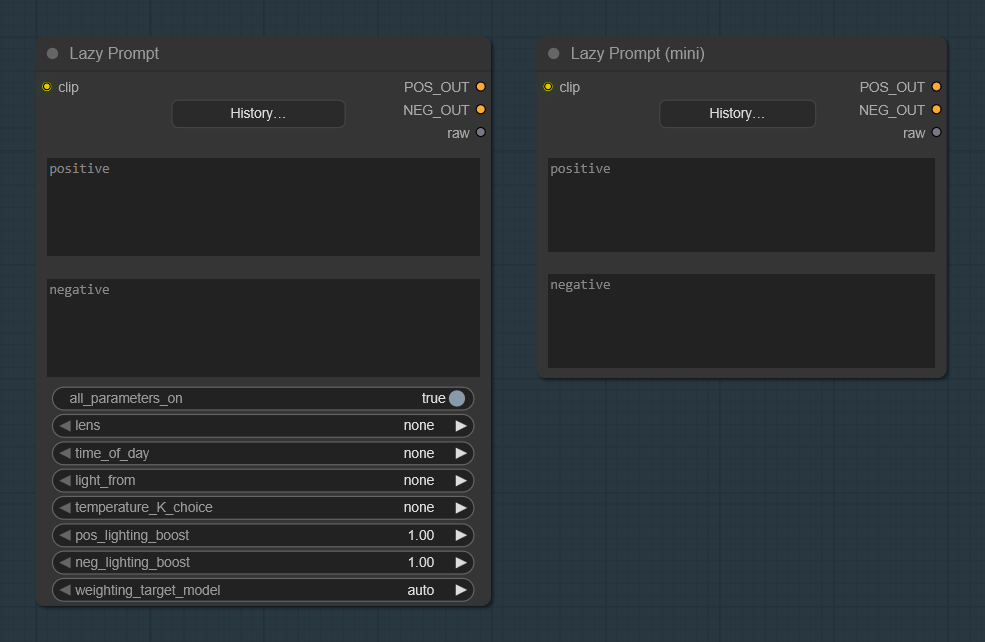
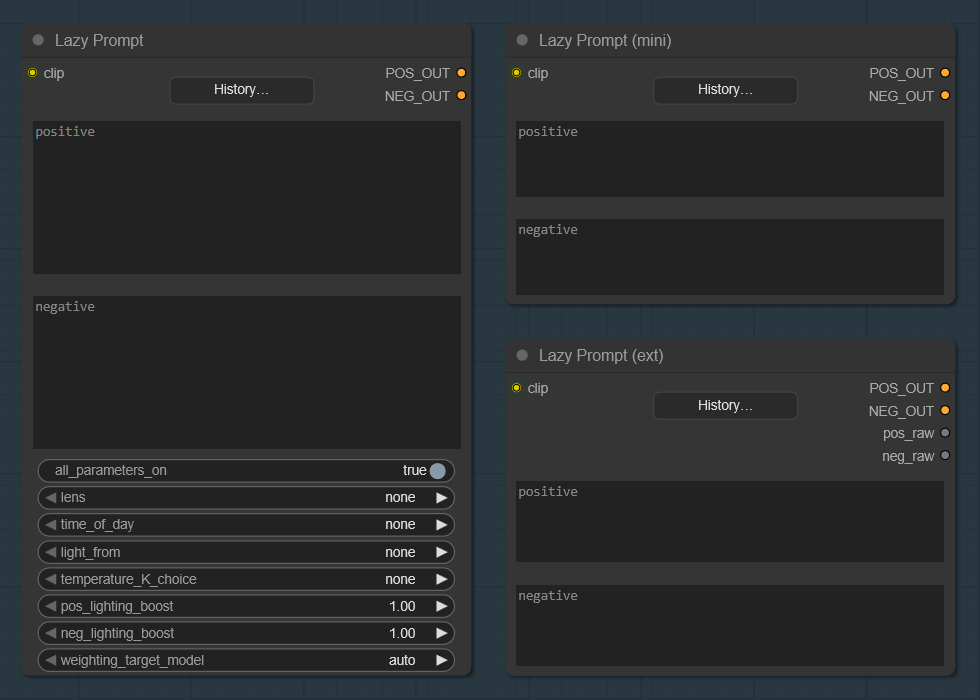
New node

diff --git a/web/PG-Lazy-Prompt.js b/web/PG-Lazy-Prompt.js
@@ -75,8 +75,8 @@ import { app } from "../../scripts/app.js";
     ANCHOR: 'port',
 
     // Manual constants (when AUTO_FROM_NODE_SIZE = false)
-    X_LEFT: 26,
-    Y_OFFSET: 18,
+    X_LEFT: 30,
+    Y_OFFSET: 10,
     GAP: 0,
     FIXED_X: 20,
     FIXED_Y: 120,
@@ -90,16 +90,16 @@ import { app } from "../../scripts/app.js";
     // Auto from node.size
     AUTO_FROM_NODE_SIZE: true,        // enable auto‑scaling
     AUTO_RATIOS: {                    // ratios relative to node.size
-      X_LEFT: 0.30,                   // % of node width
+      X_LEFT: 0.33,                   // % of node width
       GAP: 0,                         // % of node height
-      BTN_W: 0.38,                    // % of width
+      BTN_W: 0.32,                    // % of width
       BTN_H: 0.39,                    // % of height
       PAD:   0.50                     // % of width
     },
     AUTO_CLAMP: {                     // safe clamps
       X_LEFT: [25, 500],
       GAP:    [0, 0],
-      BTN_W:  [42, 500],
+      BTN_W:  [22, 500],
       BTN_H:  [10, 24],
       PAD:    [6, 16]
     },
@@ -114,23 +114,33 @@ import { app } from "../../scripts/app.js";
   function graph(){ var a = app(); return a && a.graph ? a.graph : null; }
   function findWidget(node, name){ if (!node || !node.widgets) return null; for (var i=0;i<node.widgets.length;i++){ var w=node.widgets[i]; if (w && w.name===name) return w; } return null; }
   function get(node, key, def){ var w=findWidget(node,key); return (w&&typeof w.value!=='undefined')?w.value:def; }
-  function isPgLazyPromptClass(x){
-    const cls = (
-      x?.comfyClass || x?.type || x?.name || x?.title ||
-      x?.constructor?.comfyClass || x?.constructor?.type || ''
-    );
-    const s = String(cls);
-    return s === 'PgLazyPrompt' || s === 'PgLazyPromptMini' || s === 'Lazy Prompt' || s === 'Lazy Prompt (mini)';
+  const PG_LAZY_NAMES = new Set([
+    // class names
+    'PgLazyPrompt', 'PgLazyPromptMini', 'PgLazyPromptExt',
+    // display titles as they appear in ComfyUI UI
+    'Lazy Prompt', 'Lazy Prompt (mini)', 'Lazy Prompt (ext)',
+  ]);
+  function _norm(x){
+    return (x == null ? '' : String(x));
   }
-  const PG_LAZY_CLASSES = new Set(['PgLazyPrompt','PgLazyPromptMini','Lazy Prompt','Lazy Prompt (mini)']);
+  function _collectNames(x){
+    if (!x) return [];
+    const out = [];
+    out.push(_norm(x.comfyClass), _norm(x.type), _norm(x.name), _norm(x.title));
+    const c = x.constructor || {};
+    out.push(_norm(c.comfyClass), _norm(c.type), _norm(c.name), _norm(c.title));
+    return out.filter(Boolean);
+  }
+  function _matchesAnyLazyName(x){
+    return _collectNames(x).some(n => PG_LAZY_NAMES.has(n));
+  }
+  function isPgLazyPromptClass(x){
+    return _matchesAnyLazyName(x);
+  }
   const __isMaybeOurs = (nodeType, nodeData) => (
-    isPgLazyPromptClass(nodeType) ||
-    isPgLazyPromptClass(nodeData) ||
-    PG_LAZY_CLASSES.has(nodeType?.comfyClass) || PG_LAZY_CLASSES.has(nodeType?.name) || PG_LAZY_CLASSES.has(nodeType?.title) ||
-    PG_LAZY_CLASSES.has(nodeData?.comfyClass) || PG_LAZY_CLASSES.has(nodeData?.name) || PG_LAZY_CLASSES.has(nodeData?.title) ||
-    (nodeType?.title === 'Lazy Prompt' || nodeType?.title === 'Lazy Prompt (mini)') ||
-    (nodeData?.title === 'Lazy Prompt' || nodeData?.title === 'Lazy Prompt (mini)')
+    _matchesAnyLazyName(nodeType) || _matchesAnyLazyName(nodeData)
   );
+  
   function _isCollapsed(n){ try { return !!(n && (n.flags?.collapsed || n.collapsed)); } catch(_) { return false; } }
   function setPreview(node, txt, opts){
     try{
@@ -252,7 +262,7 @@ import { app } from "../../scripts/app.js";
 
       // 1) Fast path: class/type match
       var cls = (node.comfyClass || node.type || '').toString();
-      if (PG_LAZY_CLASSES.has(cls)) return true;
+      if (PG_LAZY_NAMES.has(cls)) return true;
 
       // 2) Heuristic by widget names (works even if some optional widgets are gone)
       var W = Array.isArray(node.widgets) ? node.widgets : [];
@@ -708,22 +718,31 @@ import { app } from "../../scripts/app.js";
     try { g?.setDirtyCanvas?.(true,true); } catch(_){ }
   }
 
-  function isPgLazyPromptClass(x){
-    const cls = (
-      x?.comfyClass || x?.type || x?.name || x?.title ||
-      x?.constructor?.comfyClass || x?.constructor?.type || ''
-    );
-    const s = String(cls);
-    return s === 'PgLazyPrompt' || s === 'PgLazyPromptMini' || s === 'Lazy Prompt' || s === 'Lazy Prompt (mini)';
+  const PG_LAZY_NAMES = new Set([
+    // class names
+    'PgLazyPrompt', 'PgLazyPromptMini', 'PgLazyPromptExt',
+    // display titles as they appear in ComfyUI UI
+    'Lazy Prompt', 'Lazy Prompt (mini)', 'Lazy Prompt (ext)',
+  ]);
+  function _norm(x){
+    return (x == null ? '' : String(x));
   }
-  const PG_LAZY_CLASSES = new Set(['PgLazyPrompt','PgLazyPromptMini','Lazy Prompt','Lazy Prompt (mini)']);
+  function _collectNames(x){
+    if (!x) return [];
+    const out = [];
+    out.push(_norm(x.comfyClass), _norm(x.type), _norm(x.name), _norm(x.title));
+    const c = x.constructor || {};
+    out.push(_norm(c.comfyClass), _norm(c.type), _norm(c.name), _norm(c.title));
+    return out.filter(Boolean);
+  }
+  function _matchesAnyLazyName(x){
+    return _collectNames(x).some(n => PG_LAZY_NAMES.has(n));
+  }
+  function isPgLazyPromptClass(x){
+    return _matchesAnyLazyName(x);
+  }
   const __isMaybeOurs = (nodeType, nodeData) => (
-    isPgLazyPromptClass(nodeType) ||
-    isPgLazyPromptClass(nodeData) ||
-    PG_LAZY_CLASSES.has(nodeType?.comfyClass) || PG_LAZY_CLASSES.has(nodeType?.name) || PG_LAZY_CLASSES.has(nodeType?.title) ||
-    PG_LAZY_CLASSES.has(nodeData?.comfyClass) || PG_LAZY_CLASSES.has(nodeData?.name) || PG_LAZY_CLASSES.has(nodeData?.title) ||
-    (nodeType?.title === 'Lazy Prompt' || nodeType?.title === 'Lazy Prompt (mini)') ||
-    (nodeData?.title === 'Lazy Prompt' || nodeData?.title === 'Lazy Prompt (mini)')
+    _matchesAnyLazyName(nodeType) || _matchesAnyLazyName(nodeData)
   );
 
   function __attachPrefsOnce(nodeType){

diff --git a/PG_Lazy_Prompt.py b/PG_Lazy_Prompt.py
@@ -399,8 +399,8 @@ class PgLazyPrompt:
             "optional": {}
         }
 
-    RETURN_TYPES  = ("CONDITIONING","CONDITIONING","STRING")
-    RETURN_NAMES  = ("POS_OUT","NEG_OUT","raw")
+    RETURN_TYPES  = ("CONDITIONING","CONDITIONING")
+    RETURN_NAMES  = ("POS_OUT","NEG_OUT")
     FUNCTION      = "build_encode_and_history"
     CATEGORY      = "PG"
     @classmethod
@@ -537,8 +537,7 @@ class PgLazyPrompt:
                 hist["items"] = items
                 _write_history_atomic(history_path, hist)
 
-        raw_text = (pos_text + ("\n---\n" + neg_text if neg_text else "")).strip()
-        return (pos_cond, neg_cond, raw_text)
+        return (pos_cond, neg_cond)
 
 
 class PgLazyPromptMini:
@@ -555,8 +554,8 @@ class PgLazyPromptMini:
             "optional": {}
         }
 
-    RETURN_TYPES  = ("CONDITIONING","CONDITIONING","STRING")
-    RETURN_NAMES  = ("POS_OUT","NEG_OUT","raw")
+    RETURN_TYPES  = ("CONDITIONING","CONDITIONING")
+    RETURN_NAMES  = ("POS_OUT","NEG_OUT")
     FUNCTION      = "build_encode_and_history"
     CATEGORY      = "PG"
     OUTPUT_NODE   = True
@@ -648,17 +647,130 @@ class PgLazyPromptMini:
                 hist["items"] = items
                 _write_history_atomic(history_path, hist)
 
-        raw_text = (pos_text + ("\n---\n" + neg_text if neg_text else "")).strip()
-        return (pos_cond, neg_cond, raw_text)
+        return (pos_cond, neg_cond)
+
+
+class PgLazyPromptExt:
+    DESCRIPTION = "Prompt -> CONDITIONING with on-disk JSON history (LRU). Extended out."
+
+    @classmethod
+    def INPUT_TYPES(cls):
+        return {
+            "required": {
+                "clip": ("CLIP", {}),
+                "positive": ("STRING", {"multiline": True, "default": ""}),
+                "negative": ("STRING", {"multiline": True, "default": ""}),
+            },
+            "optional": {}
+        }
+
+    RETURN_TYPES  = ("CONDITIONING","CONDITIONING","STRING","STRING")
+    RETURN_NAMES  = ("POS_OUT","NEG_OUT","pos_raw","neg_raw")
+    FUNCTION      = "build_encode_and_history"
+    CATEGORY      = "PG"
+    OUTPUT_NODE   = True
+
+    @classmethod
+    def IS_CHANGED(cls, **kwargs):
+        if not PG_ALWAYS_REROLL:
+            return None
+        try:
+            positive_val = kwargs.get('positive', '')
+        except Exception:
+            positive_val = ''
+        if has_choice_syntax(positive_val):
+            try:
+                return time.time_ns()
+            except Exception:
+                return time.time()
+        return None
+
+    def build_encode_and_history(
+        self,
+        clip,
+        positive,
+        negative,
+        history_ui_slot: str = "",
+    ):
+        _ = history_ui_slot
+
+        positive_orig = (positive or "").strip()
+        negative_raw  = (negative or "").strip()
+
+        # Reroll seed if enabled (env `PG_REROLL` overrides)
+        _reroll = bool(PG_ALWAYS_REROLL)
+        try:
+            if "PG_REROLL" in os.environ:
+                _reroll = bool(int(os.environ.get("PG_REROLL", "0")))
+        except Exception:
+            pass
+        _seed = None
+        if _reroll:
+            try:
+                _seed = time.time_ns() & 0xFFFFFFFF
+            except Exception:
+                _seed = int(time.time()*1000) & 0xFFFFFFFF
+        positive_raw = expand_choices(positive_orig, seed=_seed)
+
+        pos_text = positive_raw
+        neg_text = negative_raw
+
+        # Encode
+        if nodes is None:
+            raise RuntimeError("ComfyUI 'nodes' not available")
+        pos_cond, = nodes.CLIPTextEncode().encode(clip, pos_text)
+        neg_cond, = nodes.CLIPTextEncode().encode(clip, neg_text)
+
+        # History write (skip if both empty)
+        if (positive_orig == "" and negative_raw == ""):
+            print("[PG history] skip: empty positive & negative; not saving (mini)")
+        else:
+            _hp, _me = _get_prefs()
+            history_path = _normalize_history_path(_hp)
+            max_entries = int(_me)
+
+            core = {"positive": positive_orig, "negative": negative_raw}
+            key_hash = _compute_key_hash(core)
+            now = int(time.time())
+            record = {
+                "key_hash": key_hash,
+                "positive": core["positive"],
+                "negative": core["negative"],
+                "created_at": now,
+                "last_used_at": now,
+                "hits": 1,
+            }
+            with _HIST_LOCK:
+                hist = _read_history(history_path)
+                items = hist.get("items", [])
+                before_len = len(items)
+                ix = _find_by_hash(items, key_hash)
+                if ix >= 0:
+                    old = items.pop(ix)
+                    record["created_at"] = int(old.get("created_at", now))
+                    record["hits"] = int(old.get("hits", 0)) + 1
+
+                items.insert(0, record)
+                items = _trim_lru(items, max_entries)
+                print(f"[PG history mini] save: before={before_len} after={len(items)} max_entries={max_entries}")
+
+                hist["items"] = items
+                _write_history_atomic(history_path, hist)
+
+        pos_raw_text = (pos_text).strip()
+        neg_raw_text = (neg_text).strip()
+        return (pos_cond, neg_cond, pos_raw_text, neg_raw_text)
 
 
 NODE_CLASS_MAPPINGS = {
     "PgLazyPrompt": PgLazyPrompt,
     "PgLazyPromptMini": PgLazyPromptMini,
+    "PgLazyPromptExt": PgLazyPromptExt,
 }
 NODE_DISPLAY_NAME_MAPPINGS = {
     "PgLazyPrompt": "Lazy Prompt",
     "PgLazyPromptMini": "Lazy Prompt (mini)",
+    "PgLazyPromptExt": "Lazy Prompt (ext)",
 }
 
 

diff --git a/__init__.py b/__init__.py
@@ -1,4 +1,4 @@
-VERSION = "1.0.0"
+VERSION = "1.5.0"
 __version__ = VERSION
 
 import importlib

diff --git a/README.md b/README.md
@@ -42,6 +42,12 @@ The core idea of **Lazy Prompt** is comfort: write a prompt once, and bring it b
 * Default cap: `max_entries = 500`.
 * **Tip:** right‑click the node (⋯) to open the **context menu** and tweak the history file path or the maximum number of stored entries.
 
+**Lazy Prompt (ext)**
+
+* Starting with version 1.5.0, I added “Lazy Prompt (ext)”, which includes outputs for interoperability with other nodes:
+
+![Lazy Prompt ext pic](./examples/Lazy_Prompt_ext.png)
+
 ---
 
 ## Unified Loader
@@ -122,6 +128,13 @@ Minimal nodes that **save** images in an `IMAGE` batch to ComfyUI’s output dir
 * You can adjust **history path** and **max entries** from the node’s **context menu**.
 
 ## Versioning & Updates
-- Current version: **1.0.0** (`__init__.py` → `VERSION`).
-- We use SemVer (MAJOR.MINOR.PATCH). See `CHANGELOG.md`.
-- To update: ComfyUI Manager → **Update Custom Nodes** → restart ComfyUI.
+
+### [1.0.0]
+#### Added
+- Initial public release.
+- Nodes: Lazy Prompt (+mini), Unified Loader (+mini), Just Save Image (+Out).
+- Prompt history JSON + config file `PG_Lazy_Prompt_Config.json`.
+
+### [1.5.0]
+#### Added
+- Lazy Prompt (ext).

diff --git a/CHANGELOG.md b/CHANGELOG.md
@@ -6,3 +6,7 @@ All notable changes to this project will be documented in this file.
 - Initial public release.
 - Nodes: Lazy Prompt (+mini), Unified Loader (+mini), Just Save Image (+Out).
 - Prompt history JSON + config file `PG_Lazy_Prompt_Config.json`.
+
+## [1.5.0] - 2025-09-25
+### Added
+- Lazy Prompt (ext).
